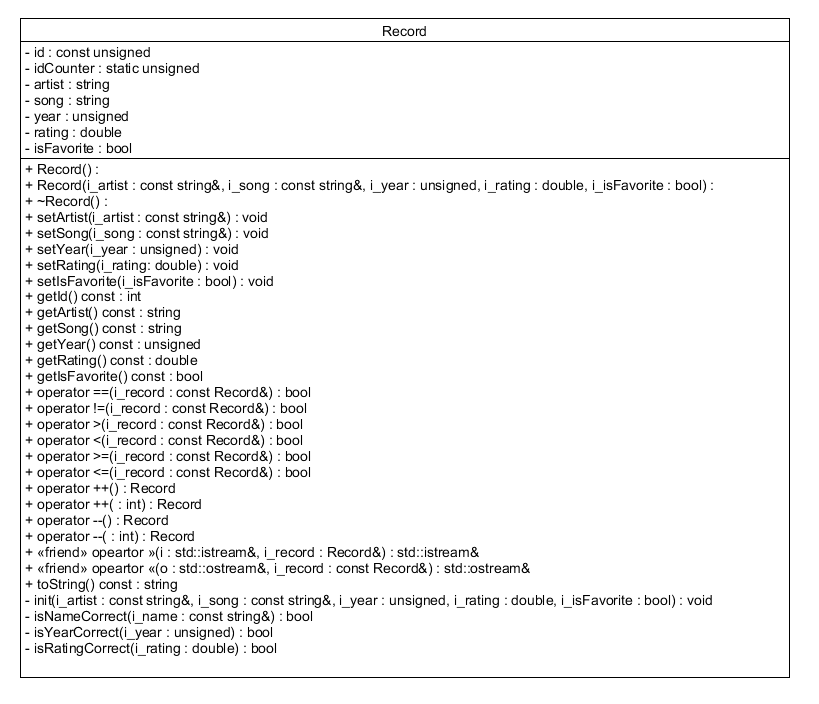
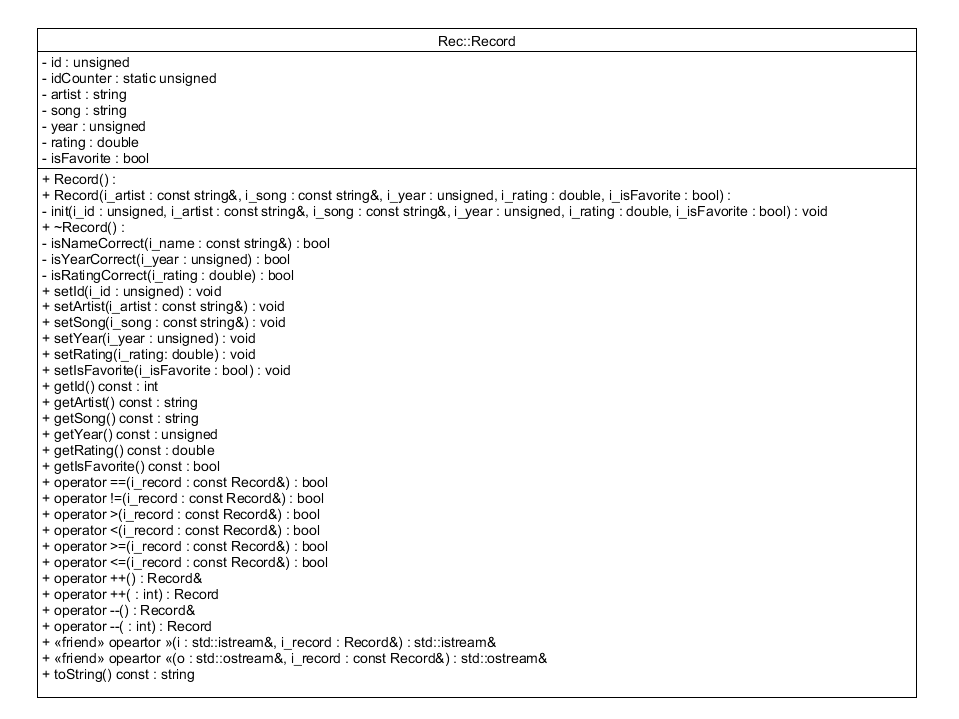
Minor changes

Changed region(s): [[0.0305, 0.0312, 0.9768, 0.9688]]

diff --git a/4 Savaitė/Record.cpp b/4 Savaitė/Record.cpp
@@ -5,19 +5,59 @@
 #include <string>
 #include <iomanip>
 
+using namespace Util::Defaults;
+using namespace Util::Exceptions;
+
 namespace Rec{
     unsigned Record::idCounter = 0;
 
-    Record::Record() : id(++idCounter){
-        init(DEFAULT_NAME, DEFAULT_NAME, DEFAULT_YEAR, DEFAULT_RATING, DEFAULT_ISFAVORITE);
+    Record::Record(){
+        init(++idCounter, DEFAULT_NAME, DEFAULT_NAME, DEFAULT_YEAR, DEFAULT_RATING, DEFAULT_ISFAVORITE);
     }
 
-    Record::Record(const std::string &i_artist, const std::string &i_song, unsigned i_year, double i_rating, bool i_isFavorite) : id(++idCounter){
-        init(i_artist, i_song, i_year, i_rating, i_isFavorite);
+    Record::Record(const std::string &i_artist, const std::string &i_song, unsigned i_year, double i_rating, bool i_isFavorite){
+        init(++idCounter, i_artist, i_song, i_year, i_rating, i_isFavorite);
+    }
+
+    void Record::init(unsigned i_id, const std::string &i_artist, const std::string &i_song, unsigned i_year, double i_rating, bool i_isFavorite){
+        setId(i_id);
+        setArtist(i_artist);
+        setSong(i_song);
+        setYear(i_year);
+        setRating(i_rating);
+        setIsFavorite(i_isFavorite);
     }
 
     Record::~Record(){
         --idCounter;
+    }
+
+    bool Record::isNameCorrect(const std::string &i_name){
+        if(i_name.length() >= 2)
+            return true;
+        else
+            throw std::invalid_argument(INVALID_NAME_EXCEPTION + i_name);
+    }
+
+    bool Record::isYearCorrect(unsigned i_year){
+        if(i_year >= DEFAULT_YEAR && i_year <= Util::getCurrentYear())
+            return true;
+        else
+            throw std::invalid_argument(INVALID_YEAR_EXCEPTION + std::to_string(i_year));
+    }
+
+    bool Record::isRatingCorrect(double i_rating){
+        if(i_rating >= 0 && i_rating <= 10)
+            return true;
+        else{
+            std::stringstream ss;
+            ss << INVALID_RATING_EXCEPTION << std::fixed << std::setprecision(1) << i_rating;
+            throw std::invalid_argument(ss.str());
+        }
+    }
+
+    void Record::setId(unsigned i_id){
+        id = i_id;
     }
 
     void Record::setArtist(const std::string &i_artist){
@@ -65,10 +105,7 @@ namespace Rec{
     }
 
     bool Record::operator ==(const Record &i_record){
-        if(this->getRating() != i_record.getRating())
-            return false;
-
-        return true;
+        return (this->getRating() == i_record.getRating());
     }
 
     bool Record::operator !=(const Record &i_record){
@@ -84,20 +121,14 @@ namespace Rec{
     }
 
     bool Record::operator >=(const Record &i_record){
-        if(this->getRating() < i_record.getRating())
-            return false;
-
-        return true;
+        return (this->getRating() >= i_record.getRating());
     }
 
     bool Record::operator <=(const Record &i_record){
-        if(this->getRating() > i_record.getRating())
-            return false;
-
-        return true;
+        return (this->getRating() <= i_record.getRating());
     }
 
-    Record Record::operator ++(){
+    Record& Record::operator ++(){
         float temp_rating = this->getRating();
         this->setRating(++temp_rating);
         return *this;
@@ -110,7 +141,7 @@ namespace Rec{
         return temp;
     }
 
-    Record Record::operator --(){
+    Record& Record::operator --(){
         float temp_rating = this->getRating();
         this->setRating(--temp_rating);
         return *this;
@@ -124,14 +155,15 @@ namespace Rec{
     }
 
     std::istream& operator >>(std::istream &i, Record &i_record){
+        unsigned temp_id;
         std::string temp_artist;
         std::string temp_song;
         unsigned temp_year;
         double temp_rating;
         bool temp_isFavorite;
 
-        i >> temp_artist >> temp_song >> temp_year >> temp_rating >> temp_isFavorite;
-        i_record.init(temp_artist, temp_song, temp_year, temp_rating, temp_isFavorite);
+        i >> temp_id >> temp_artist >> temp_song >> temp_year >> temp_rating >> temp_isFavorite;
+        i_record.init(temp_id, temp_artist, temp_song, temp_year, temp_rating, temp_isFavorite);
 
         return i;
     }
@@ -151,37 +183,5 @@ namespace Rec{
         ss << getIsFavorite();
 
         return ss.str();
-    }
-
-    void Record::init(const std::string &i_artist, const std::string &i_song, unsigned i_year, double i_rating, bool i_isFavorite){
-        setArtist(i_artist);
-        setSong(i_song);
-        setYear(i_year);
-        setRating(i_rating);
-        setIsFavorite(i_isFavorite);
-    }
-
-    bool Record::isNameCorrect(const std::string &i_name){
-        if(i_name.length() >= 2)
-            return true;
-        else
-            throw std::invalid_argument(INVALID_NAME_EXCEPTION + i_name);
-    }
-
-    bool Record::isYearCorrect(unsigned i_year){
-        if(i_year >= DEFAULT_YEAR && i_year <= Util::getCurrentYear())
-            return true;
-        else
-            throw std::invalid_argument(INVALID_YEAR_EXCEPTION + std::to_string(i_year));
-    }
-
-    bool Record::isRatingCorrect(double i_rating){
-        if(i_rating >= 0 && i_rating <= 10)
-            return true;
-        else{
-            std::stringstream ss;
-            ss << INVALID_RATING_EXCEPTION << std::fixed << std::setprecision(1) << i_rating;
-            throw std::invalid_argument(ss.str());
-        }
     }
 }

diff --git a/4 Savaitė/Record.h b/4 Savaitė/Record.h
@@ -7,7 +7,7 @@
 namespace Rec{
     class Record{
         private:
-            const unsigned id;
+            unsigned id;
             static unsigned idCounter;
             std::string artist;
             std::string song;
@@ -18,8 +18,20 @@ namespace Rec{
         public:
             Record();
             Record(const std::string&, const std::string&, unsigned, double, bool);
+
+        private:
+            void init(unsigned, const std::string&, const std::string&, unsigned, double, bool);
+
+        public:
             ~Record();
 
+        private:
+            bool isNameCorrect(const std::string&);
+            bool isYearCorrect(unsigned);
+            bool isRatingCorrect(double);
+
+        public:
+            void setId(unsigned);
             void setArtist(const std::string&);
             void setSong(const std::string&);
             void setYear(unsigned);
@@ -40,22 +52,15 @@ namespace Rec{
             bool operator >=(const Record&);
             bool operator <=(const Record&);
 
-            Record operator ++();
+            Record& operator ++();
             Record operator ++(int);
-            Record operator --();
+            Record& operator --();
             Record operator --(int);
 
             friend std::istream& operator >>(std::istream&, Record&);
             friend std::ostream& operator <<(std::ostream&, const Record&);
 
             std::string toString() const;
-
-        private:
-            void init(const std::string&, const std::string&, unsigned, double, bool);
-
-            bool isNameCorrect(const std::string&);
-            bool isYearCorrect(unsigned);
-            bool isRatingCorrect(double);
     };
 }
 

diff --git a/4 Savaitė/Utility.h b/4 Savaitė/Utility.h
@@ -2,18 +2,23 @@
 #define UTILITY_H
 
 #include <chrono>
-
-#define DEFAULT_YEAR                1900
-#define DEFAULT_NAME                "Not Found"
-#define DEFAULT_RATING              0.0
-#define DEFAULT_ISFAVORITE          false
-
-#define INVALID_NAME_EXCEPTION      "Invalid name: "
-#define INVALID_YEAR_EXCEPTION      "Invalid year: "
-#define INVALID_RATING_EXCEPTION    "Invalid rating: "
-#define UNEXPEXTED_EXCEPTION        "Unexpected error occurred."
+#include <string>
 
 namespace Util{
+    namespace Defaults{
+        const unsigned DEFAULT_YEAR = 1900;
+        const std::string DEFAULT_NAME = "Not Found";
+        const float DEFAULT_RATING = 0.0;
+        const bool DEFAULT_ISFAVORITE  = false;
+    }
+
+    namespace Exceptions{
+        const std::string INVALID_NAME_EXCEPTION = "Invalid name: ";
+        const std::string INVALID_YEAR_EXCEPTION = "Invalid year: ";
+        const std::string INVALID_RATING_EXCEPTION = "Invalid rating: ";
+        const std::string UNEXPECTED_EXCEPTION = "Unexpected error occurred.";
+    }
+
     unsigned getCurrentYear();
 }
 

diff --git a/4 Savaitė/Utility.cpp b/4 Savaitė/Utility.cpp
@@ -5,6 +5,6 @@ namespace Util{
         auto now = std::chrono::system_clock::now();
         std::time_t time = std::chrono::system_clock::to_time_t(now);
         struct tm *tnow = std::gmtime(&time);
-        return tnow->tm_year + DEFAULT_YEAR;
+        return tnow->tm_year + Defaults::DEFAULT_YEAR;
     }
 }

diff --git a/4 Savaitė/main.cpp b/4 Savaitė/main.cpp
@@ -21,7 +21,7 @@ int main(){
         std::cerr << e.what() << "\n";
     }
     catch(...){
-        std::cerr << UNEXPEXTED_EXCEPTION << "\n";
+        std::cerr << Util::Exceptions::UNEXPECTED_EXCEPTION << "\n";
     }
 
     return 0;
